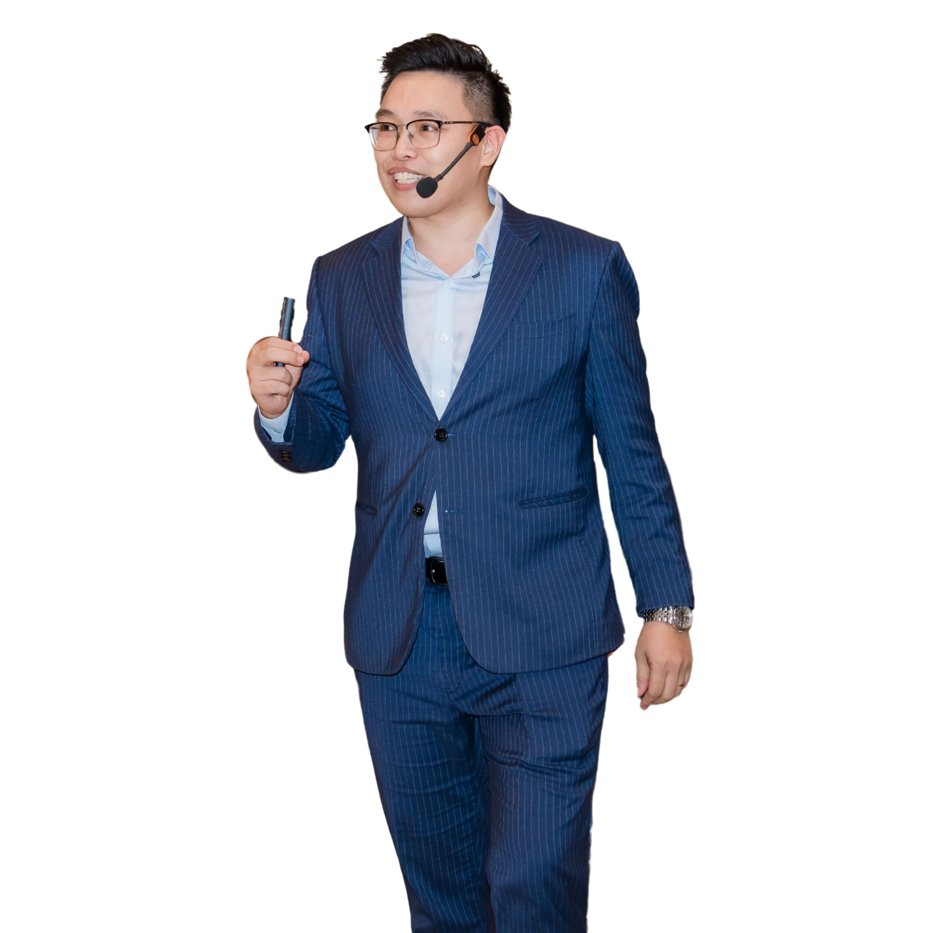
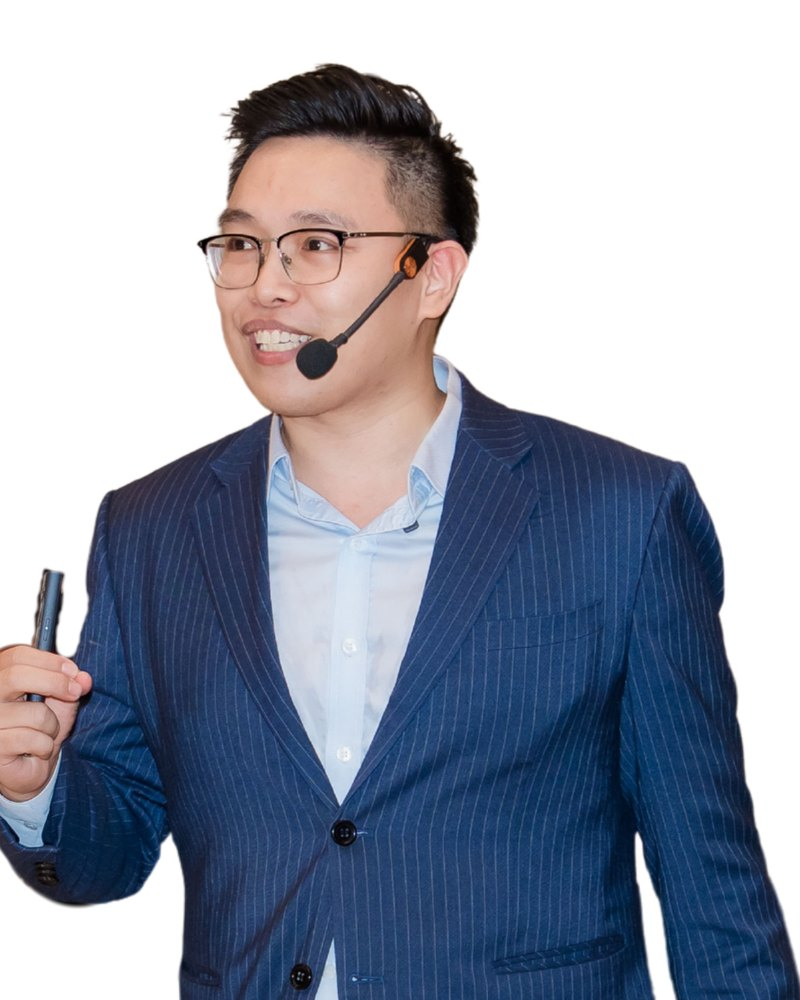
Resize author photo on /sach/: smaller 4:5 portrait crop (#4)
Claude-Session: https://claude.ai/code/session_017LwqFr3P5cQqXe2mxdiWjc

diff --git a/sach/index.html b/sach/index.html
@@ -56,7 +56,7 @@
       <div class="preview-invitation" id="doc-thu"><div><span class="demo-label">Đọc thử</span><h3>Đọc trước.<br>Cảm nhận giọng văn.</h3><p>Đọc đoạn mở đầu Lời tác giả: câu chuyện về cuộc gọi lúc chín giờ tối và vì sao tác giả viết cuốn sách này. Bạn cũng có thể tải bản PDF trong cửa sổ đọc thử.</p></div><div class="preview-form-wrap"><form id="preview-form"><label for="preview-email">Email của bạn</label><input id="preview-email" name="email" type="email" inputmode="email" autocomplete="email" placeholder="ban@email.com" required><button class="button button-outline" id="preview-submit" type="submit">Đọc thử ngay <span aria-hidden="true">↗</span></button><p class="form-status" id="preview-status" role="status" aria-live="polite"></p></form><p class="form-note">Email chưa được lưu hay gửi đi ở bản hiện tại. Đoạn trích lấy từ bản thảo và có thể thay đổi khi xuất bản.</p></div></div>
     </div></section>
 
-    <section class="section author-section" id="tac-gia" aria-labelledby="author-title"><div class="container author-grid"><figure class="author-photo"><img src="assets/images/nam-nguyen.jpg" alt="Nam Nguyễn — Speaking Coach" width="933" height="1400" loading="lazy"><figcaption>Nam Nguyễn — Founder S-PEAK</figcaption></figure><div class="author-copy"><p class="section-kicker">Về tác giả</p><h2 id="author-title">Nam Nguyễn</h2><p class="author-role">Influential speaking coach<br>Facilitator · Founder S-PEAK</p><p>Nam đồng hành cùng coach, trainer, consultant và chuyên gia độc lập chuyển chuyên môn thành bài nói có cấu trúc. Speaking Canvas, mô hình VES hay DTR trong sách là những công cụ anh phát triển và dùng khi hướng dẫn học viên, từ hiểu người nghe, chọn thông điệp đến mời họ bước tiếp phù hợp.</p><div class="author-stats" aria-label="Kinh nghiệm của tác giả"><div><strong>14+</strong><span>Năm kinh nghiệm</span></div><div><strong>11.000+</strong><span>Giờ đào tạo</span></div><div><strong>1.200+</strong><span>Giờ khai vấn</span></div></div><blockquote>“Đôi khi chúng ta nghĩ mình thiếu tự tin, nhưng điều mình thật sự thiếu là sự rõ ràng.”</blockquote><p class="source-note">Trích Lời tác giả, bản thảo S-PEAK!. Số liệu kinh nghiệm theo giới thiệu của tác giả.</p></div></div></section>
+    <section class="section author-section" id="tac-gia" aria-labelledby="author-title"><div class="container author-grid"><figure class="author-photo"><img src="assets/images/nam-nguyen.jpg?v=2" alt="Nam Nguyễn — Speaking Coach" width="800" height="1000" loading="lazy"><figcaption>Nam Nguyễn — Founder S-PEAK</figcaption></figure><div class="author-copy"><p class="section-kicker">Về tác giả</p><h2 id="author-title">Nam Nguyễn</h2><p class="author-role">Influential speaking coach<br>Facilitator · Founder S-PEAK</p><p>Nam đồng hành cùng coach, trainer, consultant và chuyên gia độc lập chuyển chuyên môn thành bài nói có cấu trúc. Speaking Canvas, mô hình VES hay DTR trong sách là những công cụ anh phát triển và dùng khi hướng dẫn học viên, từ hiểu người nghe, chọn thông điệp đến mời họ bước tiếp phù hợp.</p><div class="author-stats" aria-label="Kinh nghiệm của tác giả"><div><strong>14+</strong><span>Năm kinh nghiệm</span></div><div><strong>11.000+</strong><span>Giờ đào tạo</span></div><div><strong>1.200+</strong><span>Giờ khai vấn</span></div></div><blockquote>“Đôi khi chúng ta nghĩ mình thiếu tự tin, nhưng điều mình thật sự thiếu là sự rõ ràng.”</blockquote><p class="source-note">Trích Lời tác giả, bản thảo S-PEAK!. Số liệu kinh nghiệm theo giới thiệu của tác giả.</p></div></div></section>
 
     <section class="section order-section dark-section" id="dat-sach" aria-labelledby="order-title"><div class="container"><div class="order-heading"><div><p class="section-kicker">S-PEAK!</p><h2 id="order-title">Đặt cuốn sách<br><em>của bạn.</em></h2></div><p>Bắt đầu bài nói của bạn từ hôm nay: đọc một chương, làm một bài tập, điền một ô trên Speaking Canvas.</p></div><div class="order-pitch"><div class="order-pitch-cover"><div class="cover-crop small-cover"><img src="assets/images/book-reference.webp?v=2" alt="Bìa sách S-PEAK!" width="1200" height="1680" loading="lazy"></div></div><div class="order-pitch-copy"><span class="demo-label">Bản trải nghiệm</span><h3>Biến chuyên môn thành sức ảnh hưởng</h3><p>Sách thực hành gồm 4 phần, 11 chương: từ hiểu người nghe, xây niềm tin, chọn nội dung cốt lõi đến thiết kế lời kêu gọi hành động và hoàn thiện Signature Talk 15–20 phút.</p><div class="order-pitch-price"><strong>189.000đ</strong><span>/ cuốn · Bản in · Có sẵn</span></div><p class="order-pitch-note">Mở form để xem đơn mẫu. Trang demo không gửi thông tin và không thu tiền.</p><button class="button button-primary" type="button" data-open-dialog="order-dialog">Xem thông tin &amp; đặt sách <span aria-hidden="true">↗</span></button></div></div><ol class="purchase-steps"><li><span>01</span><div><strong>Chọn số lượng</strong><p>Xem tiền sách theo số cuốn.</p></div></li><li><span>02</span><div><strong>Thông tin nhận sách</strong><p>Kiểm tra người nhận và địa chỉ.</p></div></li><li><span>03</span><div><strong>Xem đơn mẫu</strong><p>Trải nghiệm bước xác nhận.</p></div></li></ol></div></section>
 

diff --git a/sach/assets/styles.css b/sach/assets/styles.css
@@ -139,8 +139,8 @@ input:focus,textarea:focus{border-color:var(--orange)}
 /* author */
 .author-section{background:var(--ink);color:#fff}
 .author-grid{display:grid;gap:40px;align-items:center}
-.author-photo{margin:0;position:relative}
-.author-photo img{width:100%;aspect-ratio:4/5;object-fit:cover;object-position:center 20%;border-radius:var(--radius)}
+.author-photo{margin:0;position:relative;width:100%;max-width:340px}
+.author-photo img{width:100%;height:auto;aspect-ratio:4/5;object-fit:cover;object-position:center 15%;border-radius:var(--radius)}
 .author-photo figcaption{margin-top:10px;font-size:.8rem;color:#aaa}
 .author-copy h2{margin-bottom:6px}
 .author-role{font:600 1.05rem/1.4 var(--font-cond);letter-spacing:.1em;text-transform:uppercase;color:var(--orange);margin:6px 0 20px}
@@ -150,7 +150,7 @@ input:focus,textarea:focus{border-color:var(--orange)}
 .author-stats strong{display:block;font:400 clamp(1.6rem,4vw,2.4rem)/1 var(--font-display)}
 .author-stats span{font-size:.78rem;color:#aaa}
 blockquote{margin:0 0 6px;padding-left:18px;border-left:4px solid var(--red);font:600 1.25rem/1.4 var(--font-body)}
-@media(min-width:900px){.author-grid{grid-template-columns:.8fr 1.2fr;gap:80px}}
+@media(min-width:900px){.author-grid{grid-template-columns:minmax(0,340px) 1fr;gap:72px;align-items:center}}
 
 /* order */
 .order-section{background:linear-gradient(135deg,var(--ink) 55%,#2a0d09)}
